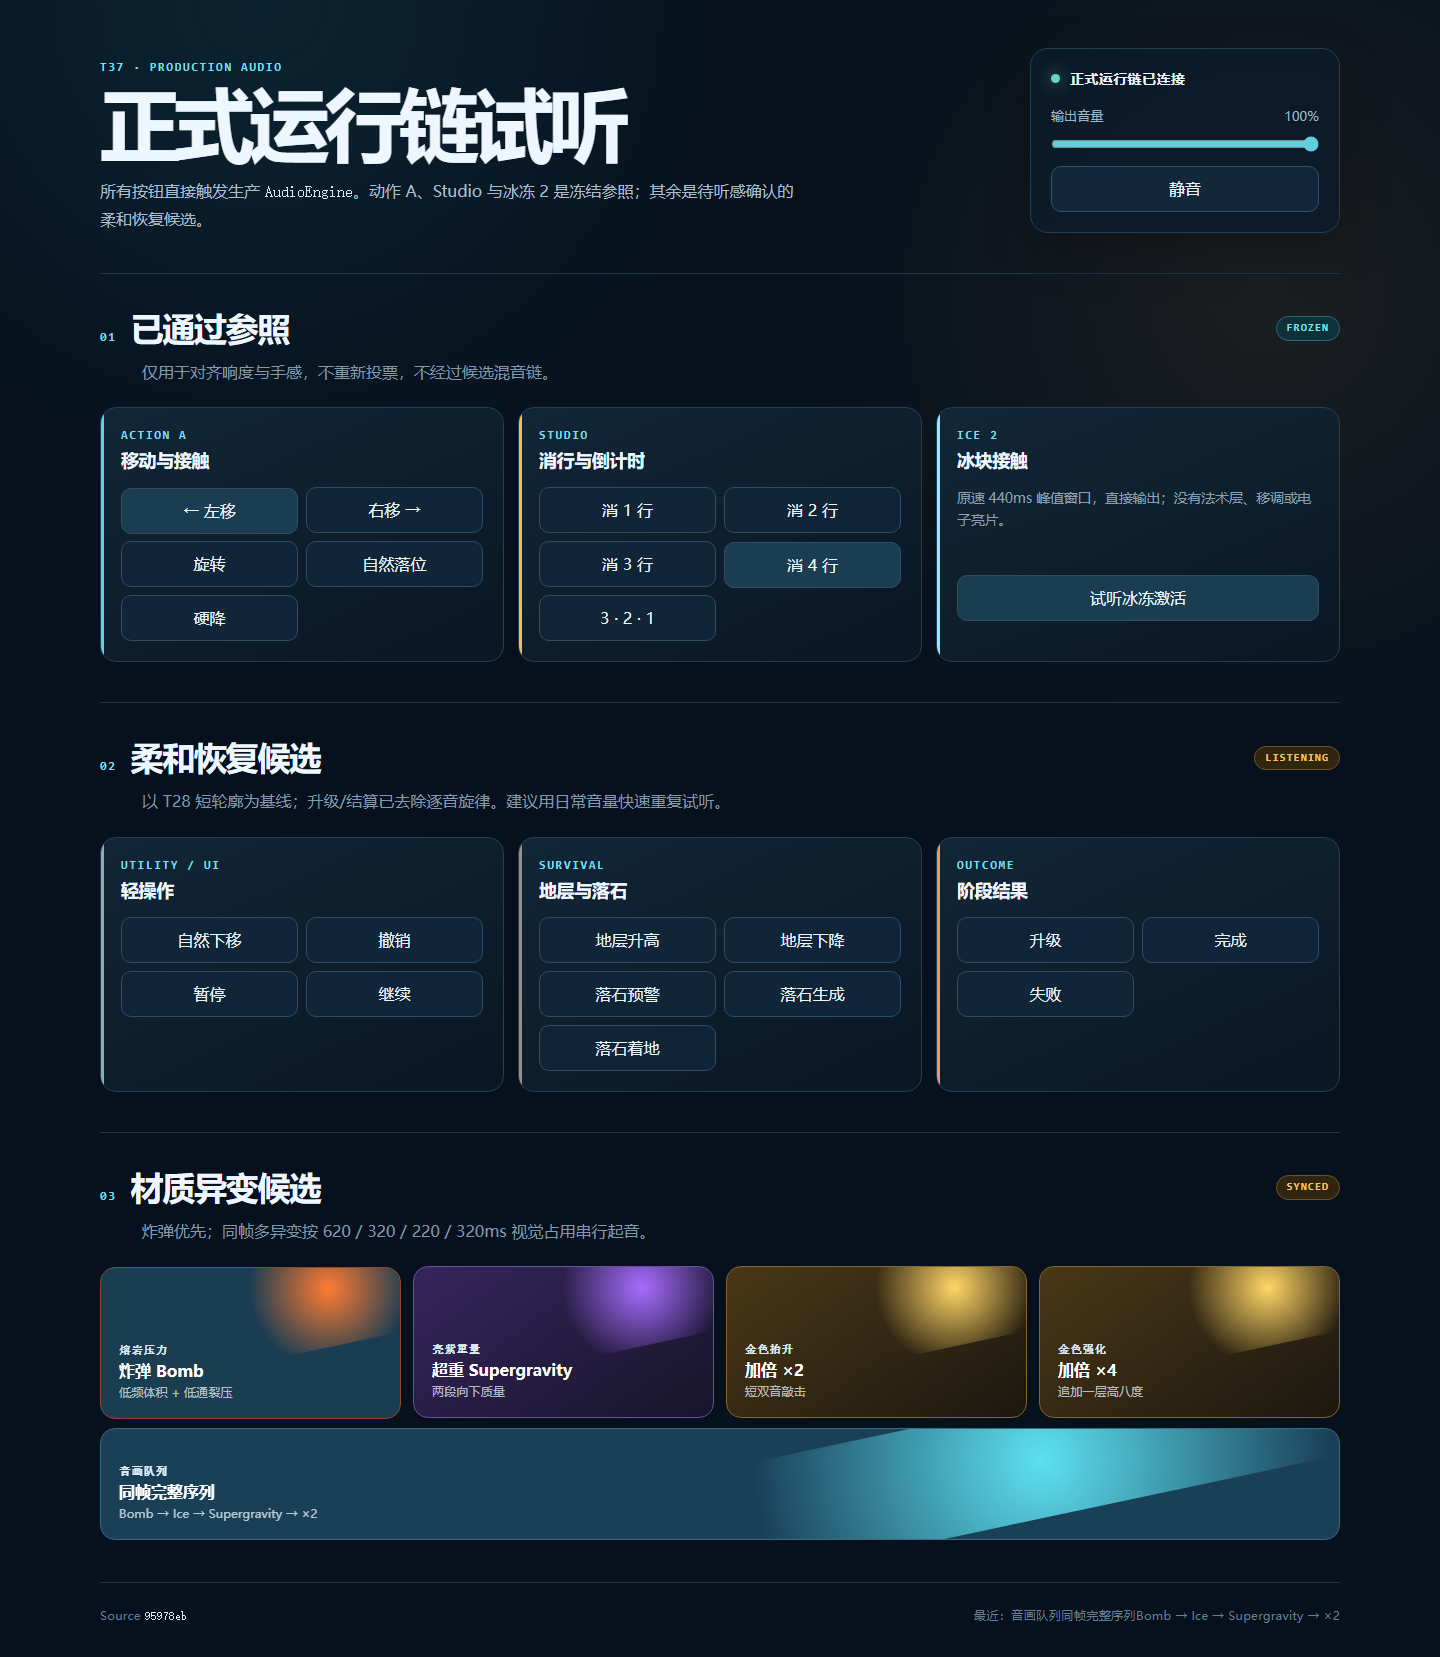
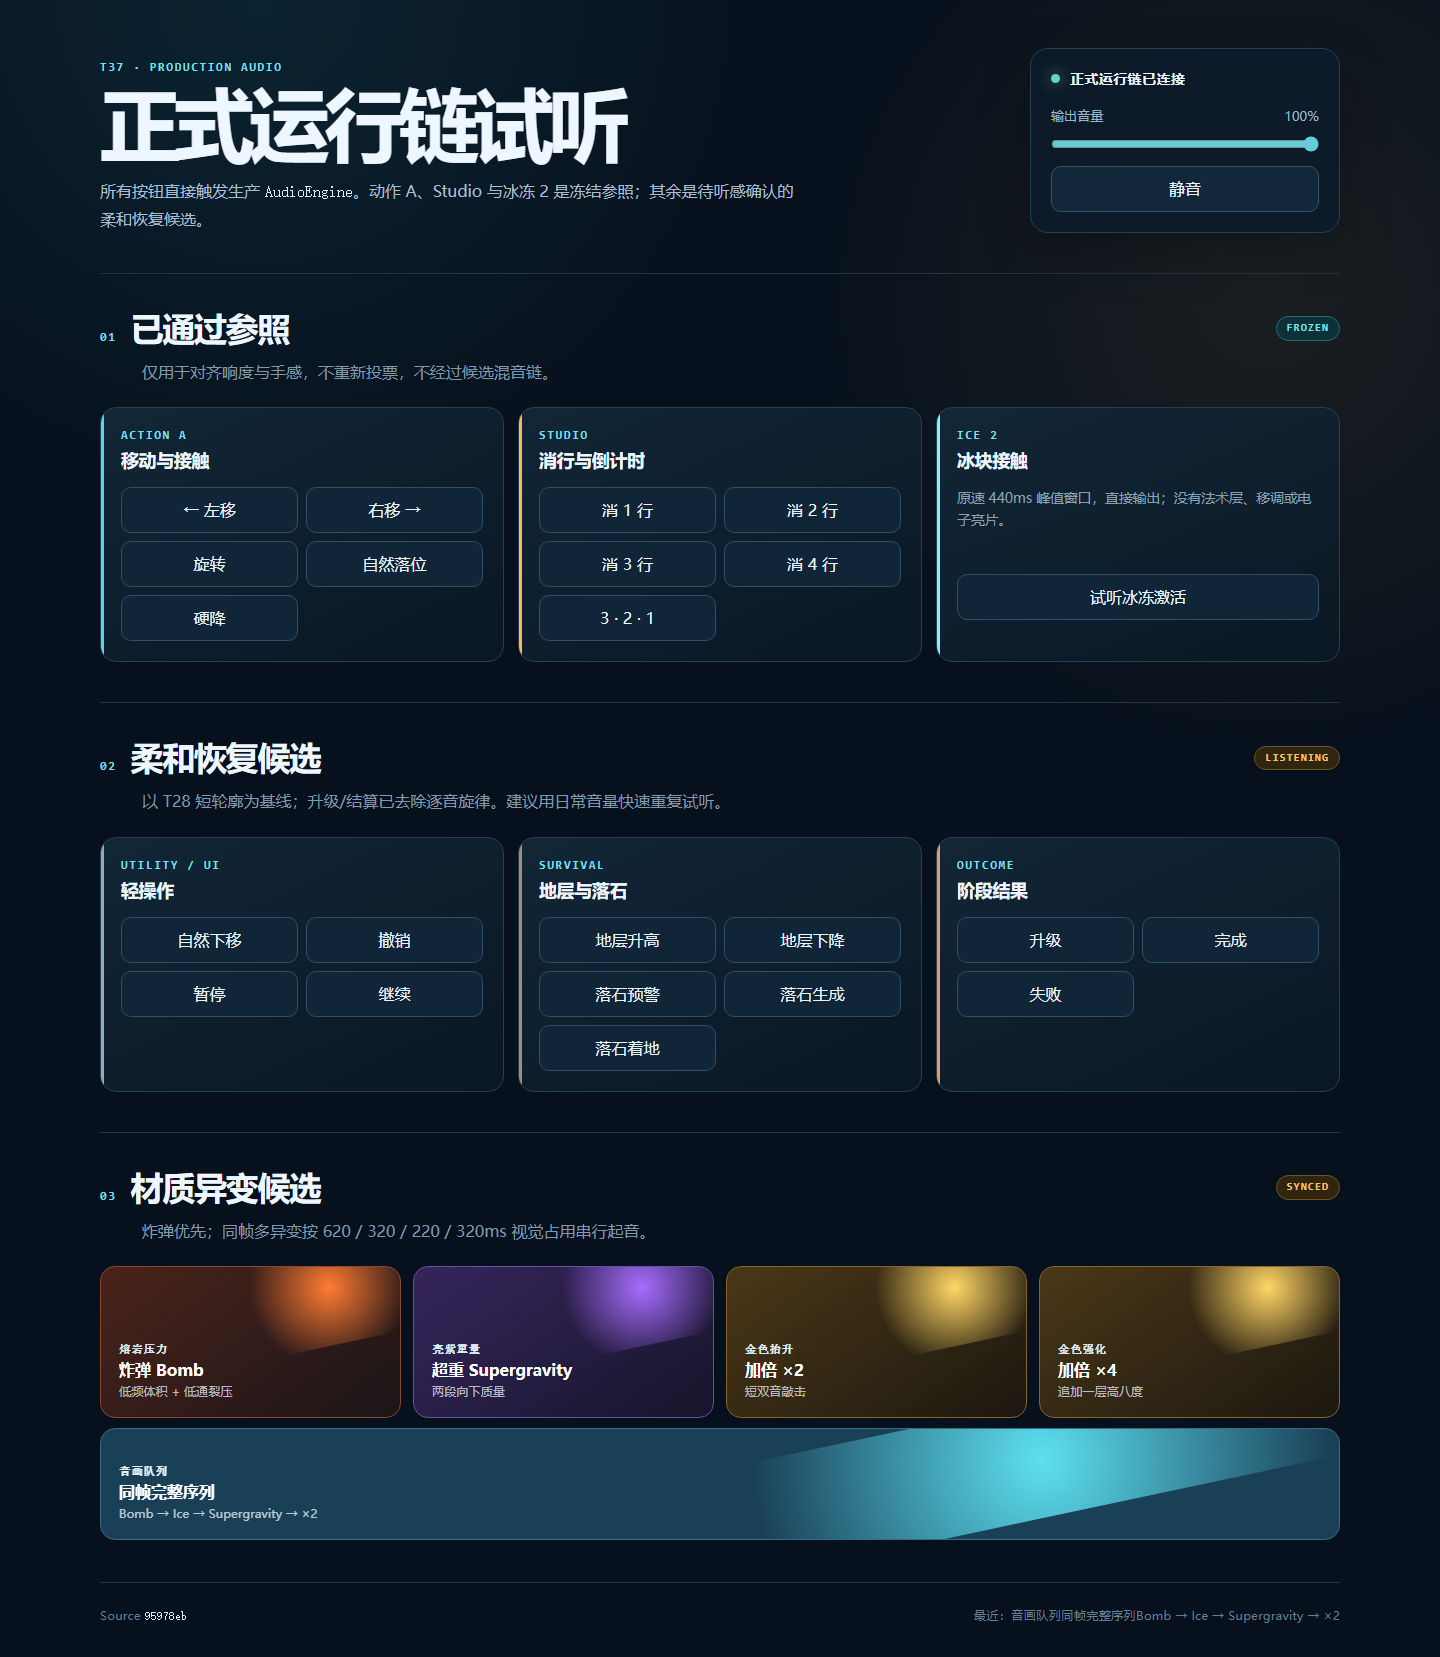
test(t37): exercise every production audio control

diff --git a/docs/evidence/t37/audio-stage-c-listening/audition.ts b/docs/evidence/t37/audio-stage-c-listening/audition.ts
@@ -80,6 +80,9 @@ async function trigger(button: HTMLButtonElement): Promise<void> {
   const handler = id ? handlers[id] : undefined;
   if (!id || !handler) return;
   clearTimers();
+  for (const active of document.querySelectorAll<HTMLButtonElement>('[data-playing]')) {
+    delete active.dataset.playing;
+  }
   button.dataset.playing = 'true';
   status && (status.textContent = primed ? '正式运行链已连接' : '正在载入本地音频…');
   await audio.prime();
